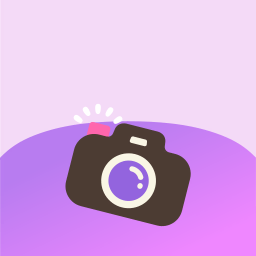
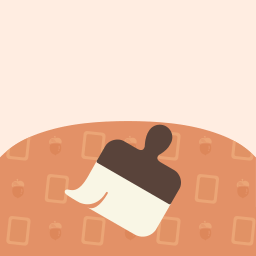
Añadidas fotos cumpleaños WIP
-Añadido custom event

-Cambiado imagen inicio

-Ahora el boton de acceso del calendario esta en el nav

diff --git a/project/myCrossing/src/app/cal-eventos/cal-eventos.component.ts b/project/myCrossing/src/app/cal-eventos/cal-eventos.component.ts
@@ -1,26 +1,13 @@
-import { Component, ChangeDetectionStrategy, ViewChild, TemplateRef, ViewEncapsulation, OnInit } from '@angular/core';
+import { debounceTime } from 'rxjs/operators';
+import { Component, ChangeDetectionStrategy, ViewChild, TemplateRef, ViewEncapsulation, OnInit, ElementRef } from '@angular/core';
 import { startOfDay, endOfDay, subDays, addDays, endOfMonth, isSameDay, isSameMonth, addHours } from 'date-fns';
 import { BehaviorSubject, Subject } from 'rxjs';
 import { NgbModal } from '../../../node_modules/@ng-bootstrap/ng-bootstrap';
 import { CalendarEvent, CalendarEventAction, CalendarEventTimesChangedEvent, CalendarView } from 'angular-calendar';
 import localeEs from '@angular/common/locales/es';
 import { registerLocaleData } from '@angular/common';
-
-
-const colors: any = {
-  red: {
-    primary: '#ad2121',
-    secondary: '#FAE3E3',
-  },
-  blue: {
-    primary: '#1e90ff',
-    secondary: '#D1E8FF',
-  },
-  yellow: {
-    primary: '#e3bc08',
-    secondary: '#FDF1BA',
-  },
-};
+import { seasonsAndEvents, villagers } from 'animal-crossing';
+import { EventoCustom } from 'app/general/interfaces';
 
 @Component({
   selector: 'app-cal-eventos',
@@ -29,6 +16,7 @@ const colors: any = {
   styleUrls: ['./cal-eventos.component.css'],
   encapsulation: ViewEncapsulation.None
 })
+
 export class CalEventosComponent implements OnInit {
 
   @ViewChild('modalContent', { static: true }) modalContent: TemplateRef<any>;
@@ -38,15 +26,46 @@ export class CalEventosComponent implements OnInit {
   locale : string = "es";
   CalendarView = CalendarView;
   viewDate: Date = new Date();
+  events: EventoCustom[] = [];
 
   modalData: {
     action: string;
-    event: CalendarEvent;
+    event: EventoCustom;
   };
+
+  colors: any = {
+    evento: {
+      primary: '#e3bc08',
+      secondary: '#FDF1BA'
+    },
+    cumple: {
+      primary: '#e3bc08',
+      secondary: '#FDF1BA'
+    }
+  };
+
+  constructor(private modal: NgbModal, private elementRef : ElementRef) {}
 
   ngOnInit() : void{
     registerLocaleData(localeEs);
+    this.getEvents();
   }
+
+  ngAfterViewInit(){
+    let elements = this.elementRef.nativeElement.querySelectorAll(".cal-event");
+    for(let el of elements){
+      if(el.classList.includes("eventIcon")){
+        let name = el.classList[1].split("-")[1];
+        let icon = villagers.filter(v => v.name == name)[0].iconImage;
+        //console.log(villagers.filter(v => v.name == name)[0]);
+        //console.log(el.style.backgroundImage);
+        el.style.backgroundImage = 'url("'+icon+'")';
+        //el.setAttribute("background-image",'url("'+icon+'")');
+      }
+    }
+    console.log();
+  }
+
 
   // actions: CalendarEventAction[] = [
   //   {
@@ -66,17 +85,31 @@ export class CalEventosComponent implements OnInit {
   //   },
   // ];
 
+  getEvents(){
+    this.events = [];
+    let fecha = new Date();
+    // seasonsAndEvents.forEach(f => console.log(f))
+    villagers.filter(v => parseInt(v.birthday.split("/")[0]) == fecha.getMonth()+1).forEach(vecino => {
+      let cumpleanio = this.viewDate.getFullYear()+"-";
+      let mes = vecino.birthday.split("/")[0];
+      mes.length != 1 ? cumpleanio = cumpleanio+mes+"-" : cumpleanio = cumpleanio+"0"+mes+"-";
+      let dia = vecino.birthday.split("/")[1];
+      dia.length != 1 ? cumpleanio = cumpleanio+dia : cumpleanio = cumpleanio+"0"+dia;
+
+      this.events.push({
+        start: new Date(cumpleanio),
+        end: new Date(cumpleanio),
+        title: 'Cumpleaños de '+vecino.translations.spanish,
+        cssClass: "eventIcon-"+vecino.name,
+        allDay: true,
+        draggable: false,
+        image: vecino.iconImage
+      });
+    });
+  }
+
   refresh: Subject<any> = new Subject();
 
-  events: CalendarEvent[] = [
-    {
-      start: new Date(this.viewDate.getFullYear()+"-04-17"),
-      end: new Date(this.viewDate.getFullYear()+"-04-17"),
-      title: 'A 3 day event',
-      color: colors.red,
-      allDay: true,
-      draggable: false,
-    }];
   //   {
   //     start: startOfDay(new Date()),
   //     title: 'An event with no end date',
@@ -105,8 +138,6 @@ export class CalEventosComponent implements OnInit {
   // ];
 
   activeDayIsOpen: boolean = true;
-
-  constructor(private modal: NgbModal) {}
 
   dayClicked({ date, events }: { date: Date; events: CalendarEvent[] }): void {
     if (isSameMonth(date, this.viewDate)) {
@@ -140,7 +171,7 @@ export class CalEventosComponent implements OnInit {
   //   this.handleEvent('Dropped or resized', event);
   // }
 
-  handleEvent(action: string, event: CalendarEvent): void {
+  handleEvent(action: string, event: EventoCustom): void {
     this.modalData = { event, action };
     this.modal.open(this.modalContent, { size: 'lg' });
   }
@@ -172,10 +203,6 @@ export class CalEventosComponent implements OnInit {
 
   closeOpenMonthViewDay() {
     this.activeDayIsOpen = false;
-  }
-
-  actualizaEventos(){
-    console.log(this.viewDate)
   }
 
 }

diff --git a/project/myCrossing/src/app/cal-eventos/cal-eventos.component.html b/project/myCrossing/src/app/cal-eventos/cal-eventos.component.html
@@ -10,7 +10,6 @@
             [view]="view"
             [(viewDate)]="viewDate"
             (viewDateChange)="closeOpenMonthViewDay()"
-            (click)="actualizaEventos()"
           >
             <
           </div>
@@ -26,7 +25,7 @@
             [view]="view"
             [(viewDate)]="viewDate"
             (viewDateChange)="closeOpenMonthViewDay()"
-            (click)="actualizaEventos()"
+            (click)="getEvents()"
           >
             >
           </div>
@@ -42,9 +41,10 @@
         [weekStartsOn]=1
         (dayClicked)="dayClicked($event.day)"
         (eventClicked)="handleEvent('Clicked', $event.event)"
+        (click)="getEvents()"
+
       >
       </mwl-calendar-month-view>
     </div>
   </div>
 </div>
-

diff --git a/project/myCrossing/src/app/inicio/inicio.component.css b/project/myCrossing/src/app/inicio/inicio.component.css
@@ -145,7 +145,7 @@ h2{
 }
 
 #arte{
-  border-color: rgb(138 44 185);
+  border-color: rgb(173 85 70);
   background-image: url("../../assets/images/fondo-arte.png");
 }
 
@@ -164,9 +164,9 @@ h2{
   background-image: url("../../assets/images/fondo-vecinos.png");
 }
 
-#calendario{
-  border-color: rgb(44 107 105);
-  background-image: url("../../assets/images/fondo-calendario.png");
+#musica{
+  border-color: rgb(98 183 180);
+  background-image: url("../../assets/images/fondo-musica.png");
 }
 
 

diff --git a/project/myCrossing/src/app/navbar/navbar.component.html b/project/myCrossing/src/app/navbar/navbar.component.html
@@ -6,6 +6,7 @@
     <button class="button-nav" routerLink="/disenyos" routerLinkActive="activo">Diseños</button>
     <button class="button-nav" routerLink="/probador" routerLinkActive="activo">Probador</button>
     <button class="button-nav" id="irMercadoNabos" routerLink="/mercado-nabos" routerLinkActive="activo">Mercado Nabos</button>
+    <button class="button-nav" routerLink="/calendario" routerLinkActive="activo">Calendario</button>
   </div>
 
   <div class="boton-usuario">

diff --git a/project/myCrossing/src/app/inicio/inicio.component.html b/project/myCrossing/src/app/inicio/inicio.component.html
@@ -51,7 +51,7 @@
     <div class="grid-inicio grid-4">
       <img src="../../assets/images/regando-big.png">
       <button id="vecinos" routerLink="/catalogo-vecinos" class="bckg-img-boton"><h2>Vecinos</h2></button>
-      <button id="calendario" routerLink="/calendario" class="bckg-img-boton"><h2>Calendario</h2></button>
+      <button id="musica" routerLink="/catalogo-canciones" class="bckg-img-boton"><h2>Canciones</h2></button>
     </div>
   </div>
 

diff --git a/project/myCrossing/src/app/cal-eventos/cal-eventos.component.css b/project/myCrossing/src/app/cal-eventos/cal-eventos.component.css
@@ -1,5 +1,5 @@
 .padding-footer{
-  padding-top: 4vw;
+  padding-top: 6vw;
 }
 
 .background-img{
@@ -28,4 +28,16 @@
 .mes{
   text-align: center;
   width: 20%;
+}
+
+.cal-event{
+  width: 2.5rem !important;
+  height: 2.5rem !important;
+  background-color: unset !important;
+  background-image: url("https://acnhcdn.com/latest/NpcIcon/duk03.png") !important;
+  background-size: cover;
+}
+
+.cal-day-badge{
+  display: none !important;
 }

diff --git a/project/myCrossing/src/app/general/interfaces.ts b/project/myCrossing/src/app/general/interfaces.ts
@@ -1,3 +1,4 @@
+import { CalendarEvent } from 'angular-calendar';
 export interface Tarea{
   id: number;
   usuario_id: number;
@@ -78,4 +79,8 @@ export interface CriaturaMarina{
 export interface Arte{
   nombre_arte : string;
   usuario_id : number;
+}
+
+export interface EventoCustom extends CalendarEvent{
+  image: string;
 }

diff --git a/project/myCrossing/src/app/perfil/perfil.component.css b/project/myCrossing/src/app/perfil/perfil.component.css
@@ -153,3 +153,8 @@ span {
   height: 1.5vw;
   font-size: 1vw;
 }
+
+.boton-circular{
+  width: 4vw;
+  height: 4vw;
+}
